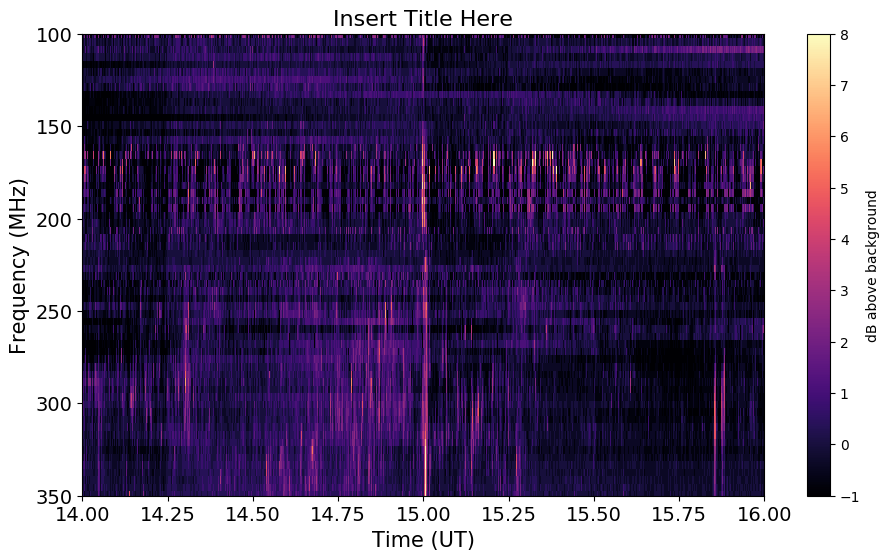
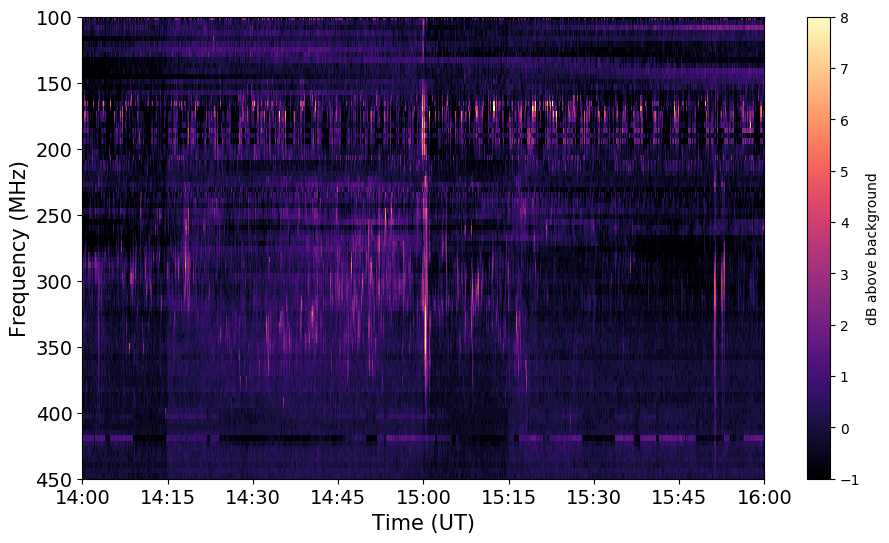
Change fraction of hour to ISO 8601 hh:mm extended time format

diff --git a/Lib/fitsread.py b/Lib/fitsread.py
@@ -1,4 +1,5 @@
 from matplotlib import pyplot as plt
+from datetime import timedelta
 import numpy as np
 from astropy.io import fits
 import os
@@ -207,6 +208,18 @@ class ECallistoFitsFile(FitsFile):
         plt.ylim(start_freq, end_freq)
         plt.gca().invert_yaxis()
 
+        hours_delta = round(ext_time_axis[-1], 2) - round(ext_time_axis[0], 2)
+        minutes_delta = hours_delta * 60
+        ticks_interval = minutes_delta / 8
+        hours_xticks = []
+        hour = timedelta(hours=round(ext_time_axis[0], 2))
+        hours_xticks.append(':'.join(hour.__str__().split(':')[:-1]))
+        while hour != timedelta(hours=round(ext_time_axis[-1], 2)):
+            hour = hour + timedelta(minutes=ticks_interval)
+            hours_xticks.append(':'.join(hour.__str__().split(':')[:-1]))
+
+        plt.gca().set_xticklabels(hours_xticks, fontsize=15)
+
         labels = {
             'en': {'colorbar': 'dB above background',
                    'xlabel': 'Time (UT)',
@@ -222,6 +235,7 @@ class ECallistoFitsFile(FitsFile):
         plt.ylabel(labels['ylabel'], fontsize=15)
         plt.title(title, fontsize=16)
         plt.tick_params(labelsize=14)
+
         plt.savefig(os.path.join(os.getcwd(), plot_filename) + '.png',
                     bbox_inches='tight')
         plt.show()

diff --git a/Tools/extended_plot.py b/Tools/extended_plot.py
@@ -21,5 +21,5 @@ for file in file_list:
 
 
 fitsread.ECallistoFitsFile.plot_fits_files_list(file_path_list, 100, 450,
-                                                'Insert Title Here', 'pt',
-                                                'plot_extendido')
+                                                '', 'en',
+                                                'extended_plot')
